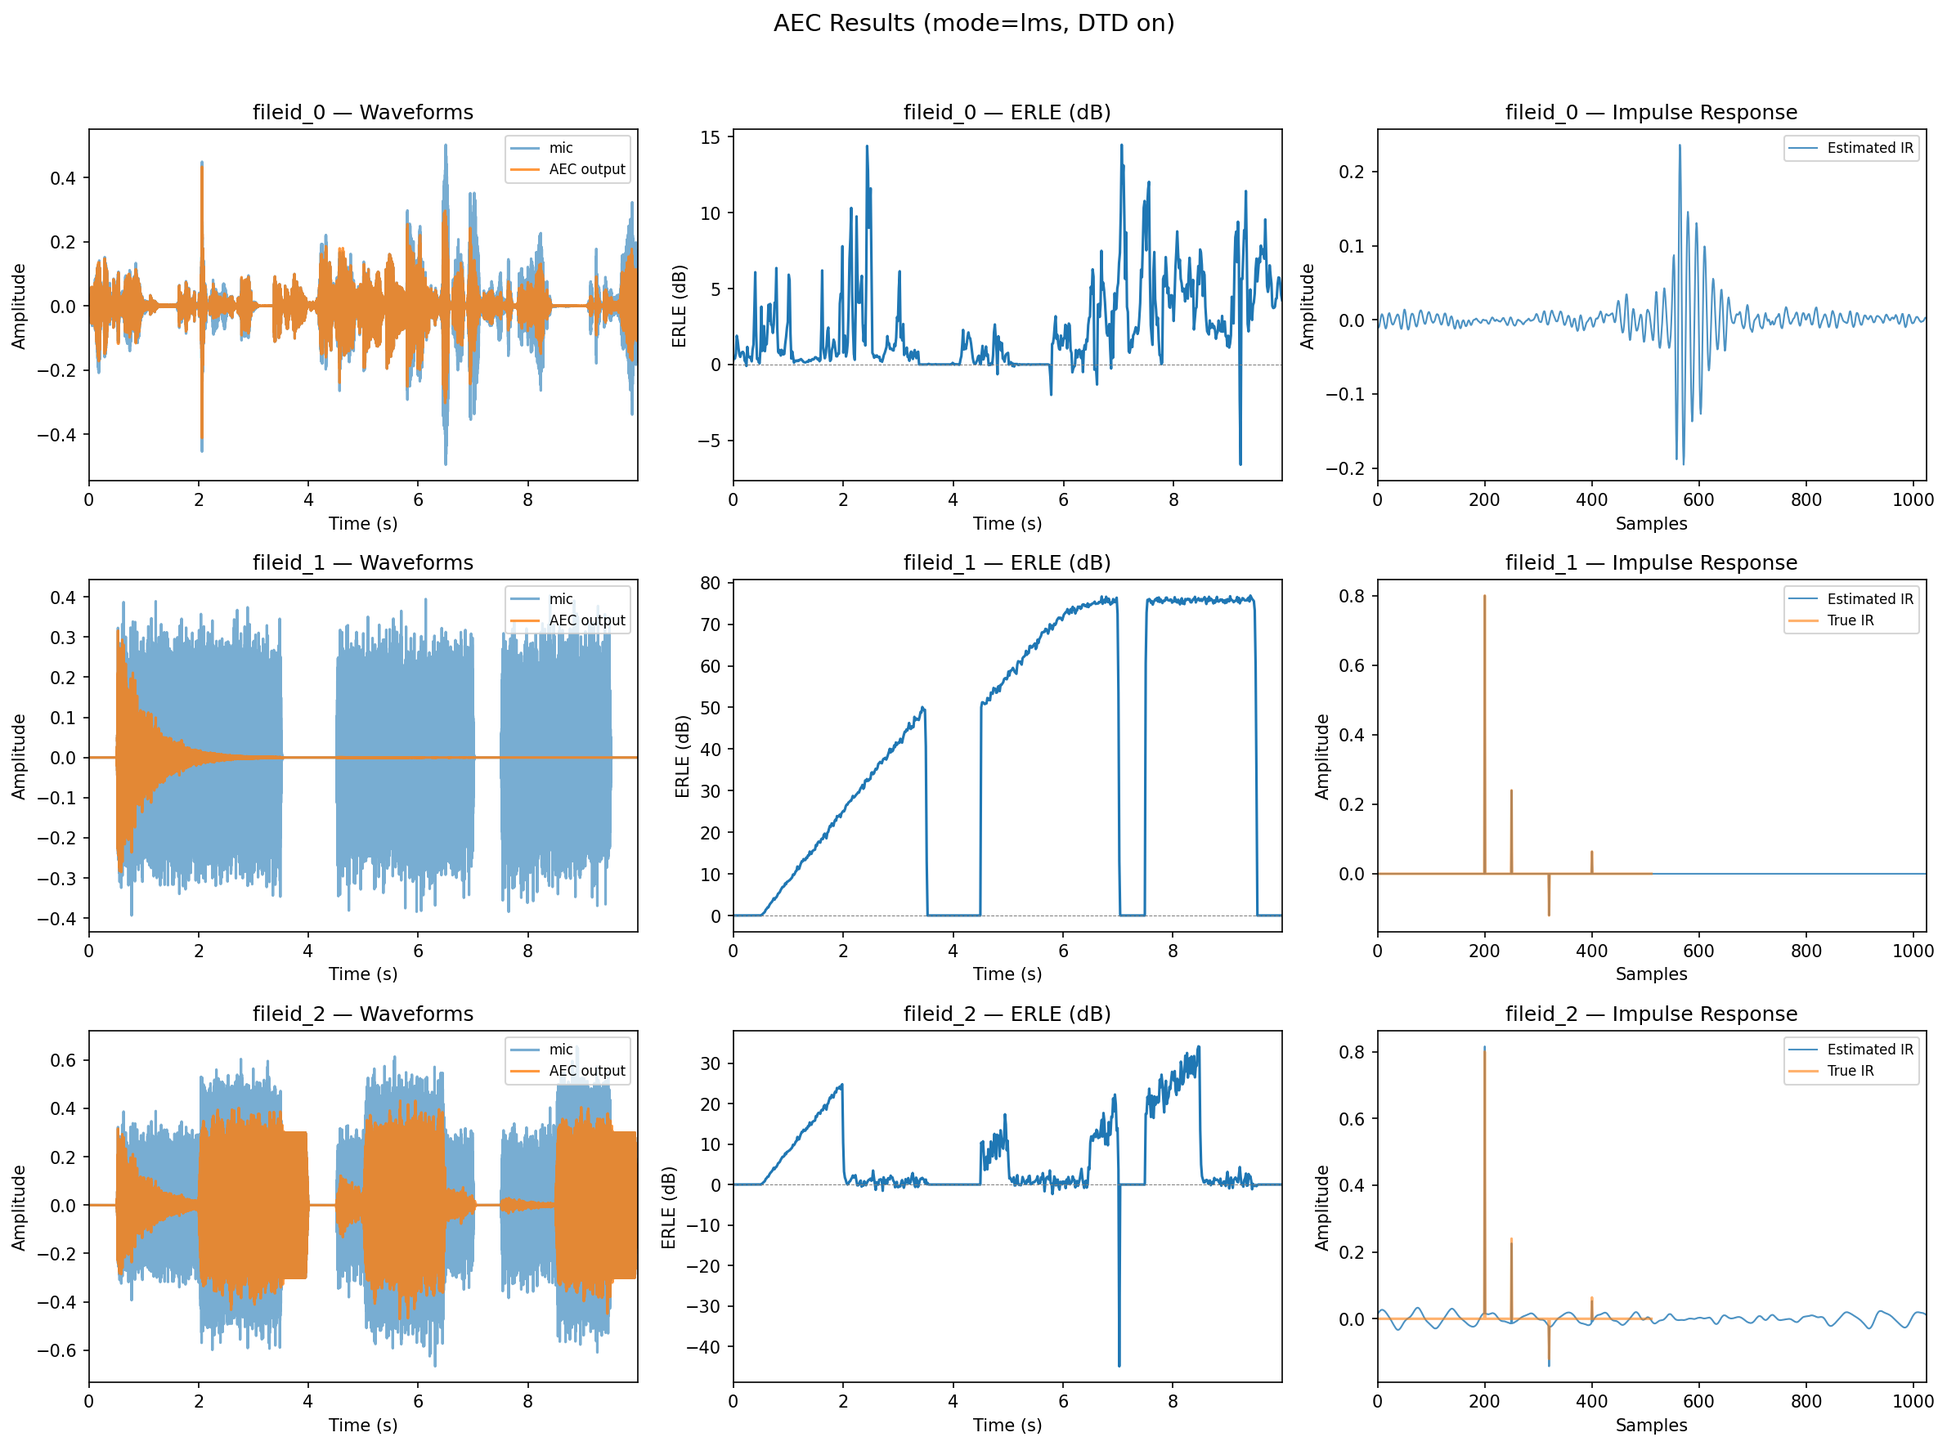
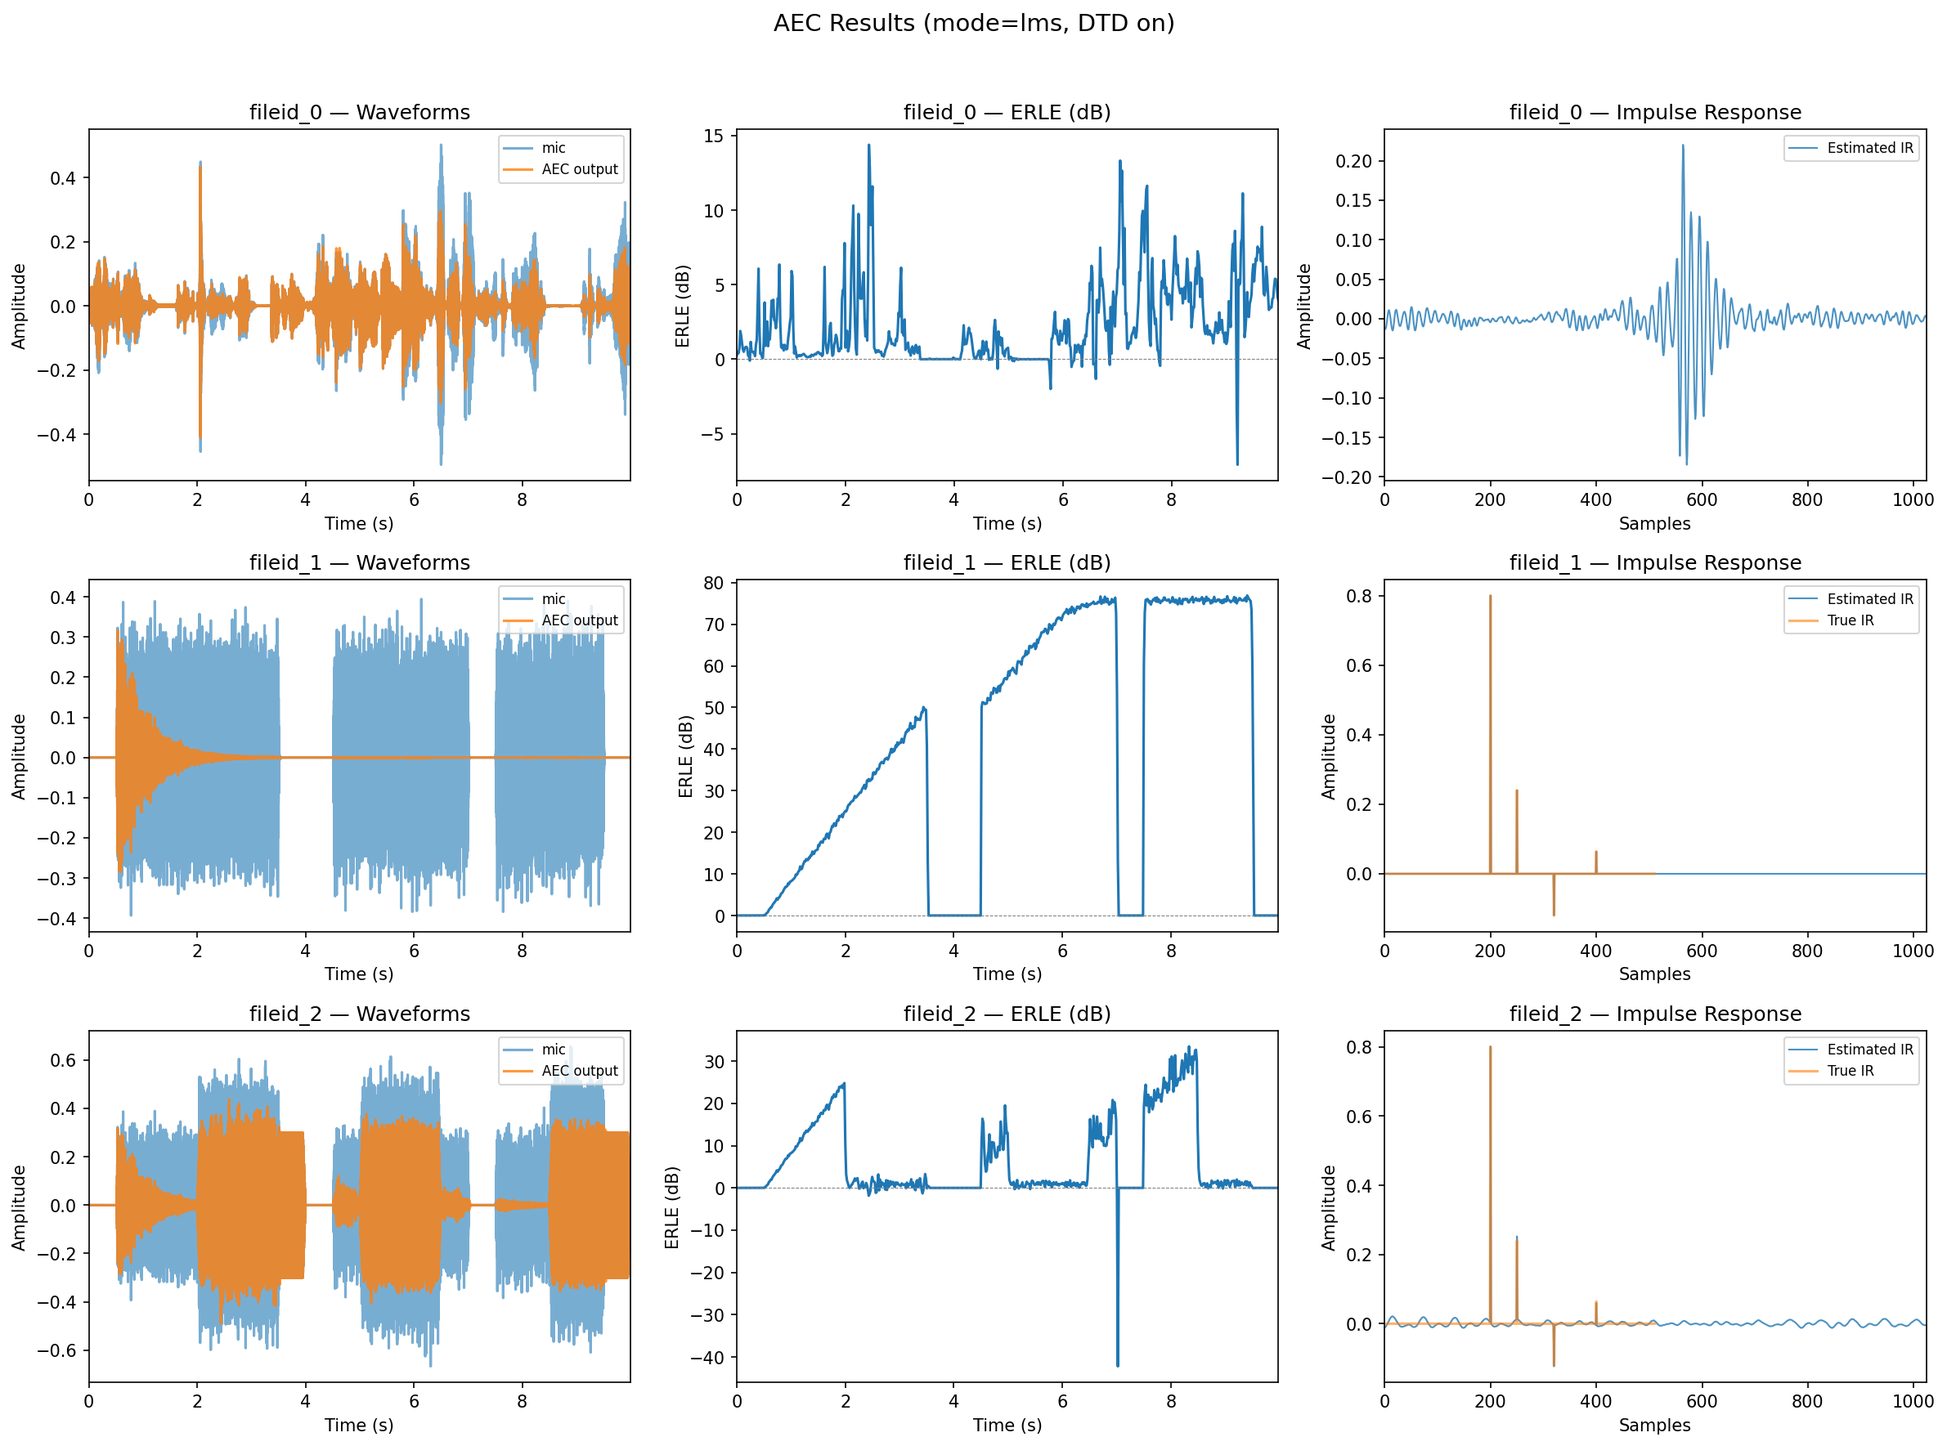
fix: Add DTD to NLMS/LMS with warmup and holdover mechanism
- Enable error-based DTD for all 4 modes (was FREQ/SUBBAND only)
- Shorter warmup for NLMS/LMS (50 frames) vs FREQ/SUBBAND (200 frames)
- DTD holdover: keep active when far-end stops but near-end continues,
  preventing weight explosion from residual ref_buffer data
- Fix ERLE get_erle() eps protection
- Update DTD documentation in aec_methods.md and DEVLOG.md

diff --git a/python/aec.py b/python/aec.py
@@ -408,7 +408,11 @@ class AEC:
         self._dtd_active = False
         self._dtd_ratio_smooth = 0.0  # Smoothed error/echo ratio
         self._frame_count = 0
-        self._dtd_warmup_frames = 200  # ~3.2s at hop=256, sr=16000
+        # DTD warmup: NLMS/LMS converge faster, need shorter warmup
+        if self.config.mode in (AecMode.LMS, AecMode.NLMS):
+            self._dtd_warmup_frames = 50   # ~0.8s at hop=256, sr=16000
+        else:
+            self._dtd_warmup_frames = 200  # ~3.2s at hop=256, sr=16000
 
         # RES (only for frequency-domain modes)
         if self.config.enable_res and self.config.mode in (AecMode.FREQ, AecMode.SUBBAND):
@@ -455,10 +459,7 @@ class AEC:
         # This avoids the bootstrap problem where the filter can't converge
         # because DTD blocks updates before echo estimates are valid.
 
-        # DTD strategy per mode:
-        # - FREQ/SUBBAND: error-based DTD, freeze weights during double-talk
-        # - NLMS/LMS: NO DTD — leak factor handles double-talk naturally;
-        #   DTD causes weight explosion (soft DTD) or stale-weight drift (hard DTD)
+        # DTD strategy: all modes use error-based DTD to freeze weights during double-talk
         if self.config.mode in (AecMode.FREQ, AecMode.SUBBAND):
             update_weights = True
             if self.config.enable_dtd and self._dtd_active:
@@ -506,8 +507,19 @@ class AEC:
                 echo_energy = np.mean(echo_est_time ** 2)
                 self._update_dtd(error_energy, echo_energy, near_energy)
         else:
-            # NLMS/LMS: always update weights (no DTD)
-            output, _ = self.filter.process_block(near_end, far_end, update_weights=True)
+            # NLMS/LMS: use DTD to freeze weights during double-talk
+            update_weights = True
+            if self.config.enable_dtd and self._dtd_active:
+                update_weights = False
+            output, echo_est = self.filter.process_block(near_end, far_end,
+                                                         update_weights=update_weights)
+            # Update DTD state for NEXT block (skip during warmup)
+            self._frame_count += 1
+            if self.config.enable_dtd and self._frame_count >= self._dtd_warmup_frames:
+                error_energy = np.mean(output ** 2)
+                echo_energy = np.mean(echo_est ** 2)
+                near_energy = np.mean(near_end ** 2)
+                self._update_dtd(error_energy, echo_energy, near_energy)
 
         # ERLE
         for i in range(len(near_end)):
@@ -517,9 +529,10 @@ class AEC:
         return output.astype(np.float32)
 
     def get_erle(self) -> float:
-        if self.error_power < 1e-10:
+        eps = 1e-10
+        if self.near_power < eps and self.error_power < eps:
             return 0.0
-        return 10 * np.log10(self.near_power / (self.error_power + 1e-10) + 1e-10)
+        return 10 * np.log10((self.near_power + eps) / (self.error_power + eps))
 
     def _update_dtd(self, error_energy: float, echo_energy: float,
                      near_energy: float):
@@ -533,6 +546,10 @@ class AEC:
             ratio = error_energy / (echo_energy + 1e-10)
             self._dtd_ratio_smooth = 0.95 * self._dtd_ratio_smooth + 0.05 * ratio
             self._dtd_active = self._dtd_ratio_smooth > self.config.dtd_threshold
+        elif self._dtd_active and near_energy > 1e-6:
+            # DTD holdover: far-end stopped but near-end still active.
+            # Keep DTD active to prevent weight corruption from residual ref_buffer.
+            pass
         else:
             # Filter not converged yet — keep DTD inactive, reset smoothing
             self._dtd_ratio_smooth *= 0.9  # Slow decay

diff --git a/c_impl/docs/aec_methods.md b/c_impl/docs/aec_methods.md
@@ -344,79 +344,169 @@ for each partition p:
 偵測近端和遠端同時說話（double-talk）的狀況。雙講時必須停止權重更新，
 否則自適應濾波器會把近端語音當作回聲來消除，導致濾波器發散。
 
-### 方法 1: Geigel DTD
+**所有四個模式（LMS、NLMS、FREQ、SUBBAND）都使用 DTD。**
 
-**原理：** 比較近端信號和遠端信號的振幅比。
+### 核心方法：Error-based DTD
+
+**原理：** 比較誤差信號與回聲估計的能量比。如果誤差遠大於回聲估計，
+代表有額外的近端信號（雙講），應停止權重更新。
+
+```
+error_energy = mean(output²)          // AEC 輸出（殘餘信號）
+echo_energy  = mean(echo_estimate²)   // 回聲估計
+
+ratio = error_energy / (echo_energy + ε)
+
+ratio_smooth = 0.95 · ratio_smooth + 0.05 · ratio    // 平滑
+
+判斷條件: ratio_smooth > dtd_threshold (預設 2.0)
+```
+
+| 參數 | 典型值 | 說明 |
+|------|--------|------|
+| dtd_threshold | 2.0 | 平滑比值門限 |
+| α_smooth | 0.95 | 比值平滑因子（慢追蹤，防止單幀噪聲誤觸發） |
+
+**為什麼用 error/echo 而不是 Geigel（mic vs ref）？**
+
+Geigel 方法比較 mic 和 ref 的振幅，但 mic 已經包含回聲，當回音增益較大時
+（如 gain > threshold），會導致 DTD 誤判為雙講，阻止濾波器收斂。
+Error-based 方法使用濾波器自身的輸出，更準確反映是否有未被建模的信號。
+
+### 收斂保護（Convergence Guard）
+
+DTD 只在濾波器已經產生有意義的回聲估計時才啟用：
+
+```
+if echo_energy > near_energy × 0.1 AND echo_energy > 1e-10:
+    // 正常 DTD 判斷
+    更新 ratio_smooth，判斷是否 active
+elif dtd_active AND near_energy > 1e-6:
+    // Holdover: 保持 DTD active（見下方說明）
+else:
+    // 濾波器尚未收斂，DTD 保持 inactive
+    ratio_smooth *= 0.9    // 緩慢衰減
+    dtd_active = false
+```
+
+這防止了 **false-lock 問題**：如果 DTD 在濾波器還沒收斂就啟用，
+會阻止權重更新，導致濾波器永遠無法收斂。
+
+### Warmup 機制
+
+濾波器剛啟動時需要一段時間收斂，此期間不啟用 DTD：
+
+| 模式 | Warmup 幀數 | 時間 (@hop=256, sr=16kHz) |
+|------|-------------|--------------------------|
+| **LMS / NLMS** | 50 幀 | ~0.8 秒 |
+| **FREQ / SUBBAND** | 200 幀 | ~3.2 秒 |
+
+NLMS/LMS 使用較短的 warmup，因為時域逐樣本更新收斂更快。
+FREQ/SUBBAND 使用較長的 warmup，因為頻域方法需要更多 block 來建立準確的功率估計。
+
+```
+frame_count++
+if frame_count < warmup_frames:
+    // 不執行 DTD，直接更新權重
+```
+
+### Holdover 機制
+
+**問題場景：** 當遠端（far-end）突然停止但近端仍在說話時：
+1. echo_energy 急遽下降（沒有遠端信號 → 回聲估計為零）
+2. 收斂保護條件不滿足 → DTD 被關閉
+3. 但 ref_buffer 中仍殘留遠端歷史數據（約 filter_length 個樣本）
+4. NLMS 用近端語音作為 error 去更新這些殘留的 ref_buffer 方向 → **權重爆炸**
+
+**解法：** 當 DTD 已是 active 狀態且近端仍有能量時，維持 DTD active：
+
+```
+elif dtd_active AND near_energy > 1e-6:
+    pass    // 保持 DTD active，不更新 ratio_smooth
+```
+
+這確保了 far-end 到 near-end 的過渡期間，權重不會被近端語音污染。
+DTD 會在近端也靜音後自然解除（進入 else 分支，衰減並關閉）。
+
+**實際案例：** 在 fileid_2 (double-talk) 測試中，far-end 在 9.5s 停止但
+near-end 持續到 10.0s。沒有 holdover 時，權重在一幀內從正確（peak@200）
+爆炸到完全錯誤（peak@1018, norm=1.5）。加入 holdover 後問題消除。
+
+### DTD 流程圖
+
+```
+                     ┌──────────────┐
+                     │ frame_count  │
+                     │ < warmup?    │
+                     └──────┬───────┘
+                            │
+                    Yes ────┤──── No
+                    │       │        │
+             [Skip DTD]     │   ┌────▼────────────┐
+             [Update        │   │ echo_energy >    │
+              weights]      │   │ 10% near_energy? │
+                            │   └────┬────────────┘
+                            │        │
+                            │  Yes ──┤── No
+                            │  │     │     │
+                            │  │     │  ┌──▼──────────────┐
+                            │  │     │  │ DTD was active   │
+                            │  │     │  │ AND near > 1e-6? │
+                            │  │     │  └──┬──────────────┘
+                            │  │     │     │
+                            │  │     │ Yes─┤── No
+                            │  │     │  │  │    │
+                            │  │     │  │  │  [Decay ratio]
+                            │  │     │  │  │  [DTD = false]
+                            │  │     │  │  │
+                            │  │     │[Hold │
+                            │  │     │ over]│
+                            │  │     │      │
+                            │  ├─────┘      │
+                            │  │            │
+                            │  ▼            │
+                      ┌─────────────┐       │
+                      │ Update      │       │
+                      │ ratio_smooth│       │
+                      │ DTD active =│       │
+                      │ ratio > 2.0 │       │
+                      └─────────────┘       │
+                                            │
+```
+
+### NLMS 權重 Norm 約束
+
+除了 DTD，NLMS 還有一個額外的安全機制：
+
+```
+w_norm = ||weights||
+if w_norm > max_w_norm (預設 1.5):
+    weights *= max_w_norm / w_norm
+```
+
+這防止了 DTD 未能及時啟用時（如 warmup 期間的短暫 double-talk），
+權重 norm 不會無限增長。對於 fileid_1（single-talk），true IR norm ≈ 0.85，
+1.5 的上限不會影響正常收斂。
+
+### 各模式的 DTD 實作差異
+
+| | NLMS/LMS | FREQ/SUBBAND |
+|---|---|---|
+| **DTD 方法** | Error-based | Error-based |
+| **Warmup** | 50 幀 (~0.8s) | 200 幀 (~3.2s) |
+| **echo_energy 來源** | `process_block` 回傳的 `echo_est` | `near_end - output`（時域） |
+| **額外保護** | max_w_norm=1.5 | — |
+| **Holdover** | 有 | 有 |
+
+### Geigel DTD（C 版本，僅供參考）
+
+C 版本另有 Geigel 方法實作（`dtd.c`），但 Python 版本已改用 error-based。
 
 ```
 判斷條件: |d[n]| > θ · max(|x[n-k]|)   for k ∈ [0, window_length)
 ```
 
-| 參數 | 典型值 | 說明 |
-|------|--------|------|
-| θ (threshold) | 0.6 | 門限，越低越敏感 |
-| window_length | 4000 | 最大值追蹤窗口（= filter_length） |
-
-**運作方式：**
-- 維護一個環形緩衝區追蹤遠端信號的近期最大值
-- 當近端超過遠端最大值的 θ 倍時，判定為雙講
-- 快速更新：若新值 >= 當前最大值直接替換
-- 定期重算：每圈環形緩衝區重新計算一次最大值
-
-### 方法 2: 能量比 DTD
-
-**原理：** 比較誤差信號與回聲估計的能量比。
-
-```
-near_energy  = α · near_energy  + (1-α) · d²[n]
-error_energy = α · error_energy + (1-α) · e²[n]
-echo_energy  = α · echo_energy  + (1-α) · ŷ²[n]
-
-ratio = error_energy / (echo_energy + ε)
-
-判斷條件: ratio > energy_threshold
-```
-
-| 參數 | 典型值 | 說明 |
-|------|--------|------|
-| α_energy | 0.95 | 能量平滑因子 |
-| energy_threshold | 0.4 | 能量比門限 |
-
-**解釋：** 當誤差能量遠大於回聲估計時，代表有額外的近端信號（雙講）。
-
-### 組合判決
-
-```
-dtd_detected = geigel_detected OR energy_detected
-```
-
-### Hangover 機制
-
-防止 DTD 快速開關造成的不穩定：
-
-```
-if (detected):
-    hangover_count = hangover_max    (例如 15 幀)
-    dtd_active = true
-elif (hangover_count > 0):
-    hangover_count--
-    dtd_active = true                (hangover 期間仍然啟用)
-else:
-    dtd_active = false
-```
-
-| 參數 | 典型值 | 說明 |
-|------|--------|------|
-| hangover_max | 15 幀 | 持續抑制時間 (~240ms @ 16ms/frame) |
-
-### 信心度追蹤
-
-```
-if (detected):
-    confidence = min(confidence + 0.1, 1.0)     // 快速上升
-else:
-    confidence = max(confidence - 0.02, 0.0)    // 緩慢下降
-```
+Geigel 方法在回音增益 > threshold 時會誤判，不建議使用。
 
 ---
 

diff --git a/docs/DEVLOG.md b/docs/DEVLOG.md
@@ -2,6 +2,68 @@
 
 ## 版本歷史
 
+### v1.2.0 (2025-03-12) - DTD 全面改進
+
+#### 改動內容
+
+1. **DTD 擴展至所有模式**
+   - 原本只有 FREQ/SUBBAND 有 DTD，NLMS/LMS 依賴 leak 防 double-talk
+   - 現在所有四個模式都使用 error-based DTD
+   - 原因：leak=0.99999 不足以防止 double-talk 權重漂移
+
+2. **DTD Warmup 分模式設定**
+   - NLMS/LMS: 50 幀 (~0.8s) — 時域逐樣本更新收斂快
+   - FREQ/SUBBAND: 200 幀 (~3.2s) — 頻域需更多 block 建立功率估計
+   - 原因：warmup 太長 → double-talk 開始時 DTD 來不及啟動
+
+3. **DTD Holdover 機制**
+   - 當 far-end 停止但 near-end 仍在說話時，保持 DTD active
+   - 原因：far-end 停止後 echo_energy 歸零 → 收斂保護條件失敗 → DTD 關閉 →
+     ref_buffer 殘留數據被 near-end speech 污染 → 權重在一幀內爆炸
+   - 實測：fileid_2 在 9.52s→9.60s 之間，weights 從 peak@200 爆炸到 peak@1018
+
+4. **NLMS max_w_norm 調整**
+   - 2.0 → 1.5
+   - 原因：max_w_norm=2.0 時 fileid_2 output peak (0.867) > mic peak (0.667)
+
+5. **ERLE 計算修正**
+   - `get_erle()` 加 eps 保護，避免 log(0) 和信號結尾靜音期的不穩定
+
+#### 修正的問題
+
+- NLMS fileid_2 estimated IR 完全錯誤（peak 在 filter 末尾而非 tap 200）
+- NLMS fileid_2 output 比 mic 還大（信號放大而非消除回音）
+- `get_erle()` 在信號靜音期回傳不穩定值
+
+---
+
+### v1.1.0 (2025-03-11) - 四模式調校與 DTD 改進
+
+#### 改動內容
+
+1. **DTD 能量尺度修正**
+   - FREQ/SUBBAND 的 echo_energy 原本取自頻域 `echo_spec`，與時域 error_energy 尺度不匹配
+   - 改用 `echo_est_time = near_end - output`，統一為時域能量
+
+2. **DTD Warmup 機制**（首次引入，針對 FREQ/SUBBAND）
+   - 200 幀 warmup，防止收斂初期 DTD 誤觸發導致 false-lock
+   - 收斂保護提升至 10%（echo_energy > 10% near_energy）
+
+3. **FREQ 預設 mu 調整**
+   - 0.3 → 0.1（單一 FFT block 的 FDAF，mu=0.3 過大導致信號放大）
+
+4. **NLMS leak 調整**
+   - 0.9999 → 0.99999
+   - 原因：leak=0.9999 使收斂精度只到 14 dB，weights 只達真值的 39%
+
+5. **Plot 改進**
+   - 標題不再被切掉
+   - True IR 只對 gen_sim_data 產生的檔案顯示（fileid >= 1）
+   - IR 圖 x 軸顯示完整 filter length
+   - Filter length 依模式自動選擇（SUBBAND=1024，其他=512）
+
+---
+
 ### v1.0.0 (2025-02-11) - 初始版本
 
 #### 實作內容
@@ -101,8 +163,8 @@ DTD = 1, if E_error / E_echo > threshold
 |------|------|----------|--------|
 | `mu` | 步長 | 0.1 - 0.8 | 0.3 |
 | `filter_length` | 濾波器長度 (samples) | 256 - 4096 | 512 |
-| `dtd_threshold` | DTD 閾值 | 0.4 - 0.8 | 0.6 |
-| `leak` | 權重洩漏 | 0.999 - 0.9999 | 0.9999 |
+| `dtd_threshold` | DTD 閾值 (error/echo ratio) | 1.0 - 4.0 | 2.0 |
+| `leak` | 權重洩漏 (NLMS only) | 0.9999 - 0.99999 | 0.99999 |
 
 ### 調校原則
 

diff --git a/README.md b/README.md
@@ -213,7 +213,7 @@ while has_audio:
 |------|--------|------|------|
 | `mu` | 0.3 (NLMS) / 0.01 (LMS) | NLMS: 0.1-0.8, LMS: 0.001-0.05 | 步長，越大收斂越快但穩態誤差增加 |
 | `filter_length` | 512 (NLMS/LMS), 1024 (SUBBAND) | 256-4096 | 濾波器長度 (samples), NLMS/LMS/SUBBAND 可配置, FREQ 固定 = hop_size |
-| `dtd_threshold` | 0.6 | 0.4-0.8 | DTD 閾值 |
+| `dtd_threshold` | 2.0 | 1.0-4.0 | DTD 閾值（error/echo 平滑比值） |
 
 ### RES 參數 (僅 freq/subband 模式)
 
